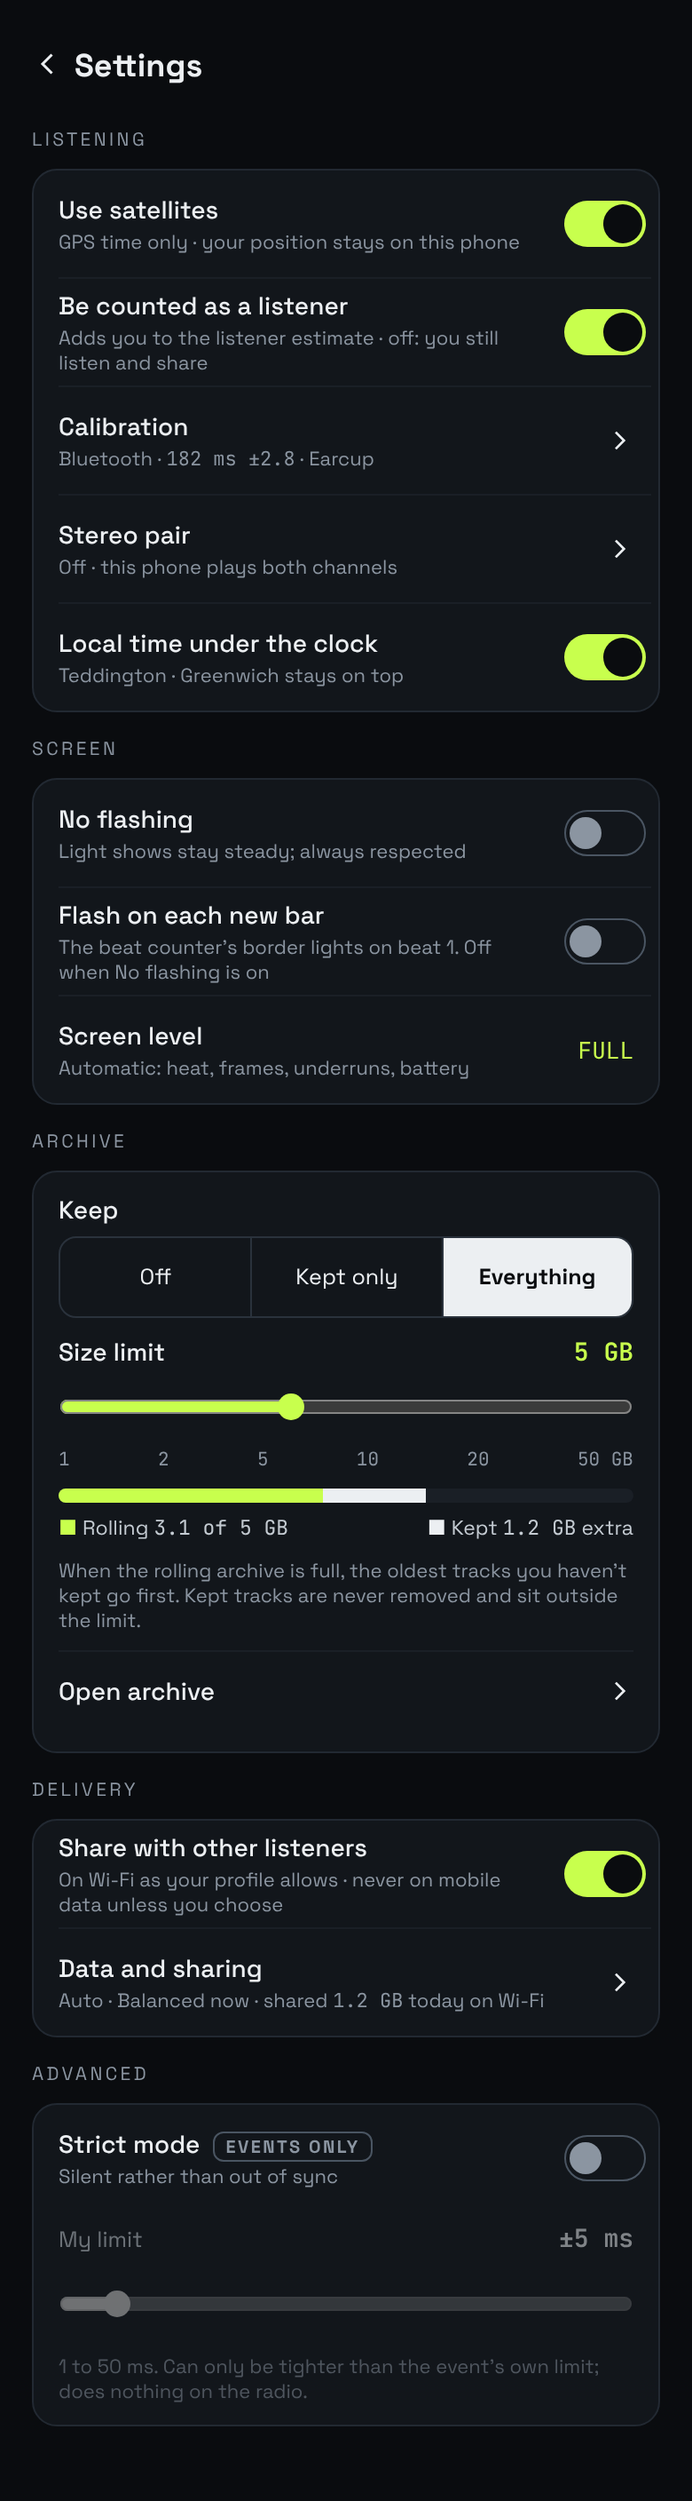
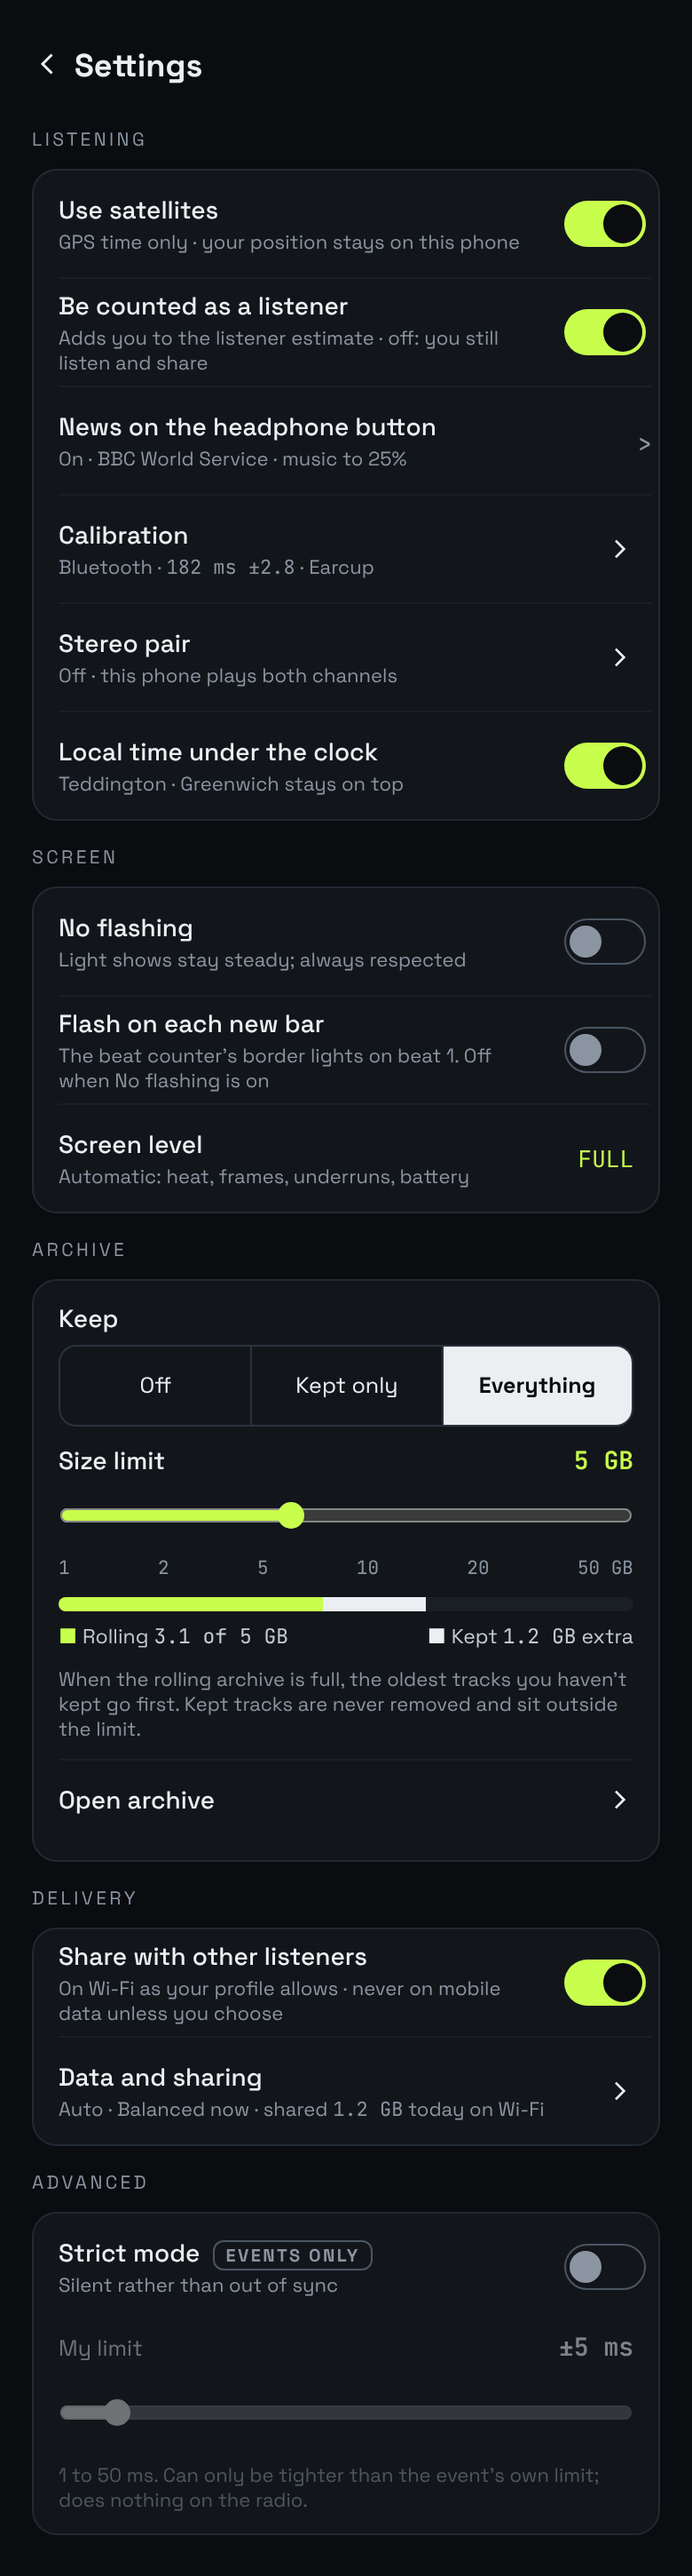
Design hand-offs 47 to 49 from Claude Desktop: news on the headphone button, Satellites gesture hint, station news choice

diff --git a/design/ui-spec.md b/design/ui-spec.md
@@ -1,4 +1,4 @@
-# UI spec (hand-off 46)
+# UI spec (hand-off 49)
 
 Field names come from Claude Code's "Fields that exist today" table in `feedback.md`, as of 1 Nov 2026. If one has been renamed since, use the new name.
 
@@ -766,6 +766,7 @@ User, 8 Nov: redesign the page; reorder sets; announce to listeners. 1440 wide, 
 | Track order | `TRACK ORDER · LATER`: once sets have track lists, a set opens to its tracks and reorders the same way. |
 | Upload | Drop zone (FLAC, WAV, MP3, up to 4 GB); file with three-step progress Uploaded → Converting % → Signing; Title, Artist (from the artist list; a new name held to confirm), Set name (optional), Goes (At the end of the order ▾). A finished upload joins the draft. |
 | Disk | Bar: sets, this upload's need (accent), 3 GB kept free (hatched red); refused before starting if it wouldn't leave 3 GB. |
+| News bulletin (user, 9 Nov) | `NEWS BULLETIN` card under Station colour, cyan: radio list **BBC World Service** (hourly · about 5 min · default; URL shown with the key masked), **NPR News Now** (`feeds.npr.org/500005/podcast.xml`), **None**. Top right: the live choice. Note: each phone fetches straight from the source; nothing through this server; changes reach phones with the next announcement. Rail gets **News · BBC World Service**. Full URLs: `comms/news-feeds.local.md` (gitignored). |
 | Station colour | `STATION COLOUR` card under Artists: the current colour's dot and name, then the 21 swatches (7 × 3, 40 px, the current one ringed with a tick). Picking one opens the colour dialog (Station colour section). |
 | Artists | Thumbnails, Open artists ›, confirm prompt (`"2 Lanes" on an upload: same as [Artist C]?` Yes / New artist). |
 
@@ -812,6 +813,41 @@ User, 8 Nov: tapping a peer on Swarm shows more about them, including their coun
 | They left | Header greyed, tiles `—` with `left 40 s ago`; sheet stays until closed; resumes if they return. |
 | List rows (proposal) | Lead with avatar + nym, key and path underneath, flag if allowed, to-you rate, ›. |
 | Data | Nym and its signature from their announcement; country from the bundled country table (only with their permission flag); link path, RTT, rates, holding from the engine. Never the IP address on screen. |
+
+## News on the headphone button
+
+| Now playing | Settings | States |
+|---|---|---|
+| ![](screens/news-now-playing.png) | ![](screens/news-settings.png) | ![](screens/news-states.png) |
+
+User, 8 Nov: press play/pause on the headphones while listening → music fades to 20–30%, the latest hourly news bulletin plays over it, music fades back up. Needs internet. **On by default**; music level and fade speed in Settings. Brocast is non-commercial and open source.
+
+| Part | Rule |
+|---|---|
+| Button | Media-session play/pause **while music plays**: soft two-note chime at once, then fetch (or use the ready one), fade down, play. Press during the bulletin: stop it, fade up. Brocast stopped: the button starts the music as before. Setting off: play/pause stops/starts as before. Next/previous do nothing. On-screen Stop always stops the music. |
+| Volume | Music under the news: slider 0–50 %, default **25 %** (≈ −12 dB). Fade down: Quick 0.5 s / **Gentle 1.5 s** / Slow 3 s. Fade back up: Quick 0.5 s / **Gentle 2 s** / Slow 4 s. Equal-power curve. Music fades only once the bulletin is ready to play. |
+| Sync | Only the music's gain changes; the set keeps its synced place, beat counter and clock carry on. |
+| Card on Now playing | Under the track row, above the clock. Cyan (news colour) gradient, `NEWS · BBC WORLD SERVICE`, `23:00 bulletin`; waveform fills as it plays, `2:41 / 5:02`; `Press your headphone button to stop · music at 25%`; **Stop**. States: Getting (spinner, MB, `music stays up until it starts`), Playing, Ending (`Music coming back up · 2 s`), then it slides away. |
+| Can't | No internet: toast `No news without internet`, low tone, music unchanged. No answer in 10 s: `News isn't answering right now`. Newest older than 2 h 30 m: treated as not answering; otherwise plays with its age (`21:00 · 2 h old`). |
+| Settings › Listening › News on the headphone button | Row `On · BBC World Service · music to 25%` → page: switch (on), **News from** (Station's choice · default / NPR News Now / Your own feed: any podcast RSS), Music under the news slider, Fade down, Fade back up, **Get the next one ready on Wi-Fi** (on: fetch each new bulletin when published, ~3 MB/hour), Play 10 s preview, fade diagram, privacy line. |
+| Source | The station picks BBC World Service (default), NPR News Now or None on the upload page; the feed URL travels in the **station's signed announcement** (kept in server config, not in code or git). Listener's `News from`: Station's choice / NPR News Now / Your own feed. Station chose None: the row reads `This station has no news · pick one below`; the switch stays on and uses the listener's pick, else the button behaves as before. |
+| Ads | Played as sent, never cut. |
+| Privacy | `Your phone fetches the bulletin straight from the news service, which sees your internet address.` |
+
+## Satellites · gesture hint
+
+![](screens/satellites-hint.png)
+
+User, 8 Nov: on first opening of Satellites, or the 3rd opening without using gestures, show an effect that prompts two-finger navigation.
+
+| Part | Rule |
+|---|---|
+| When | Opening 1, always. Opening 3, only if openings 1–2 had no pinch and no two-finger tilt. Never after. An opening counts once the screen has been up 2 s in 3D. Opened in Flat: waits for the first switch to 3D. |
+| Effect (4 s, played twice) | Scene dims 35 %. 0–0.4 s: two finger marks fade in (white ring, soft fill). 0.4–1.6 s: they spread with dashed arrows and the view really zooms out ~15 %; pill `Pinch to zoom`. 1.6–2.2 s: they come together, lower. 2.2–3.4 s: they slide up together and the view really tilts +17°; pill `Slide up or down to tilt`. 3.4–4 s: marks fade; view eases back exactly to where it was. No accent colour. |
+| After | Caption under the box: two-ring icon, `Two fingers: pinch to zoom, slide to tilt · or use − +`, until the first two-finger gesture or 20 s. The orbit tour starts when the hint ends. |
+| Stops | Any touch on the box: marks fade in 150 ms, the user's gesture takes over from the view on screen (no snap). |
+| Reduce motion | Still card over the dimmed box: two finger marks, `Pinch to zoom · slide two fingers to tilt`, Got it. Same when-rules. |
+| Screen readers | No animation; the box label gains `Pinch with two fingers to zoom, slide two fingers up or down to tilt, or use the zoom buttons.` once, on opening 1. |
 
 ## New running order on the phone
 

diff --git a/design/handoff-47.md b/design/handoff-47.md
@@ -1,0 +1,13 @@
+# Hand-off 47 (8 Nov 2026): News on the headphone button
+
+User, 8 Nov: play/pause on the headphones while listening fades the music to 20–30 %, plays the latest hourly news bulletin over it, fades back up. On by default; music level and fade speed set by the listener. Non-commercial, open source.
+
+| Item | Change | Needs code? |
+|---|---|---|
+| `screens/news-now-playing` | **New.** Now playing with the news card (under the track, above the clock). | yes |
+| `screens/news-settings` | **New.** Settings page: switch, source, level slider, fade down / up, prefetch on Wi-Fi, preview, fade diagram. | yes |
+| `screens/news-states` | **New.** Getting / playing / ending, failures, button rules, rules. | yes |
+| `screens/settings` | Listening gets the row `News on the headphone button`. | yes |
+
+Engineering: MediaSession play/pause → news while playing; gain ramp on the music (equal power) with the set still running; second player for the bulletin; RSS parse → newest enclosure; 10 s timeout; prefetch job on unmetered networks.
+**Feed:** the user's BBC URL (podcast.voice.api.bbci.co.uk … ?api_key=…) carries a BBC key; keep it out of git. Put the default feed URL in the **station config / signed announcement**, not in code. `podcasts.files.bbci.co.uk/p002vsmz.rss` is 404. NPR News Now (hourly, keyless public RSS) is the listed alternative; check its URL works.

diff --git a/design/handoff-48.md b/design/handoff-48.md
@@ -1,0 +1,10 @@
+# Hand-off 48 (9 Nov 2026): Satellites gesture hint
+
+User, 8 Nov: on the first opening of Satellites, or the 3rd opening without using gestures, show an effect that prompts two-finger navigation.
+
+| Item | Change | Needs code? |
+|---|---|---|
+| `screens/satellites-hint` | **New.** Peak frame, five keyframes, timing, Reduce-motion card, rules. | yes |
+| `ui-spec.md` | New section Satellites · gesture hint. | — |
+
+Needs: a per-install counter of 3D openings (≥ 2 s) and a "two-finger gesture used" flag; a scripted camera move (zoom 15 %, tilt +17°, ease back to the exact prior camera) that any touch cancels; overlay finger marks drawn above the scene. Tour waits for the hint.

diff --git a/design/handoff-49.md b/design/handoff-49.md
@@ -1,0 +1,10 @@
+# Hand-off 49 (9 Nov 2026): station news bulletin choice
+
+User, 9 Nov: each station has an optional bulletin, chosen on the upload page: BBC World Service (default), NPR News Now, or None. The BBC URL with its key may be used.
+
+| Item | Change | Needs code? |
+|---|---|---|
+| `screens/admin-order` | `NEWS BULLETIN` card under Station colour (BBC default / NPR / None), rail item News. | yes |
+| `ui-spec.md` | Upload page row; News on the headphone button › Source row updated (None case). | — |
+
+Full feed URLs (BBC includes the key): `comms/news-feeds.local.md`, gitignored. Keep the BBC URL in the server's station config; send it in the signed announcement; never commit it.
